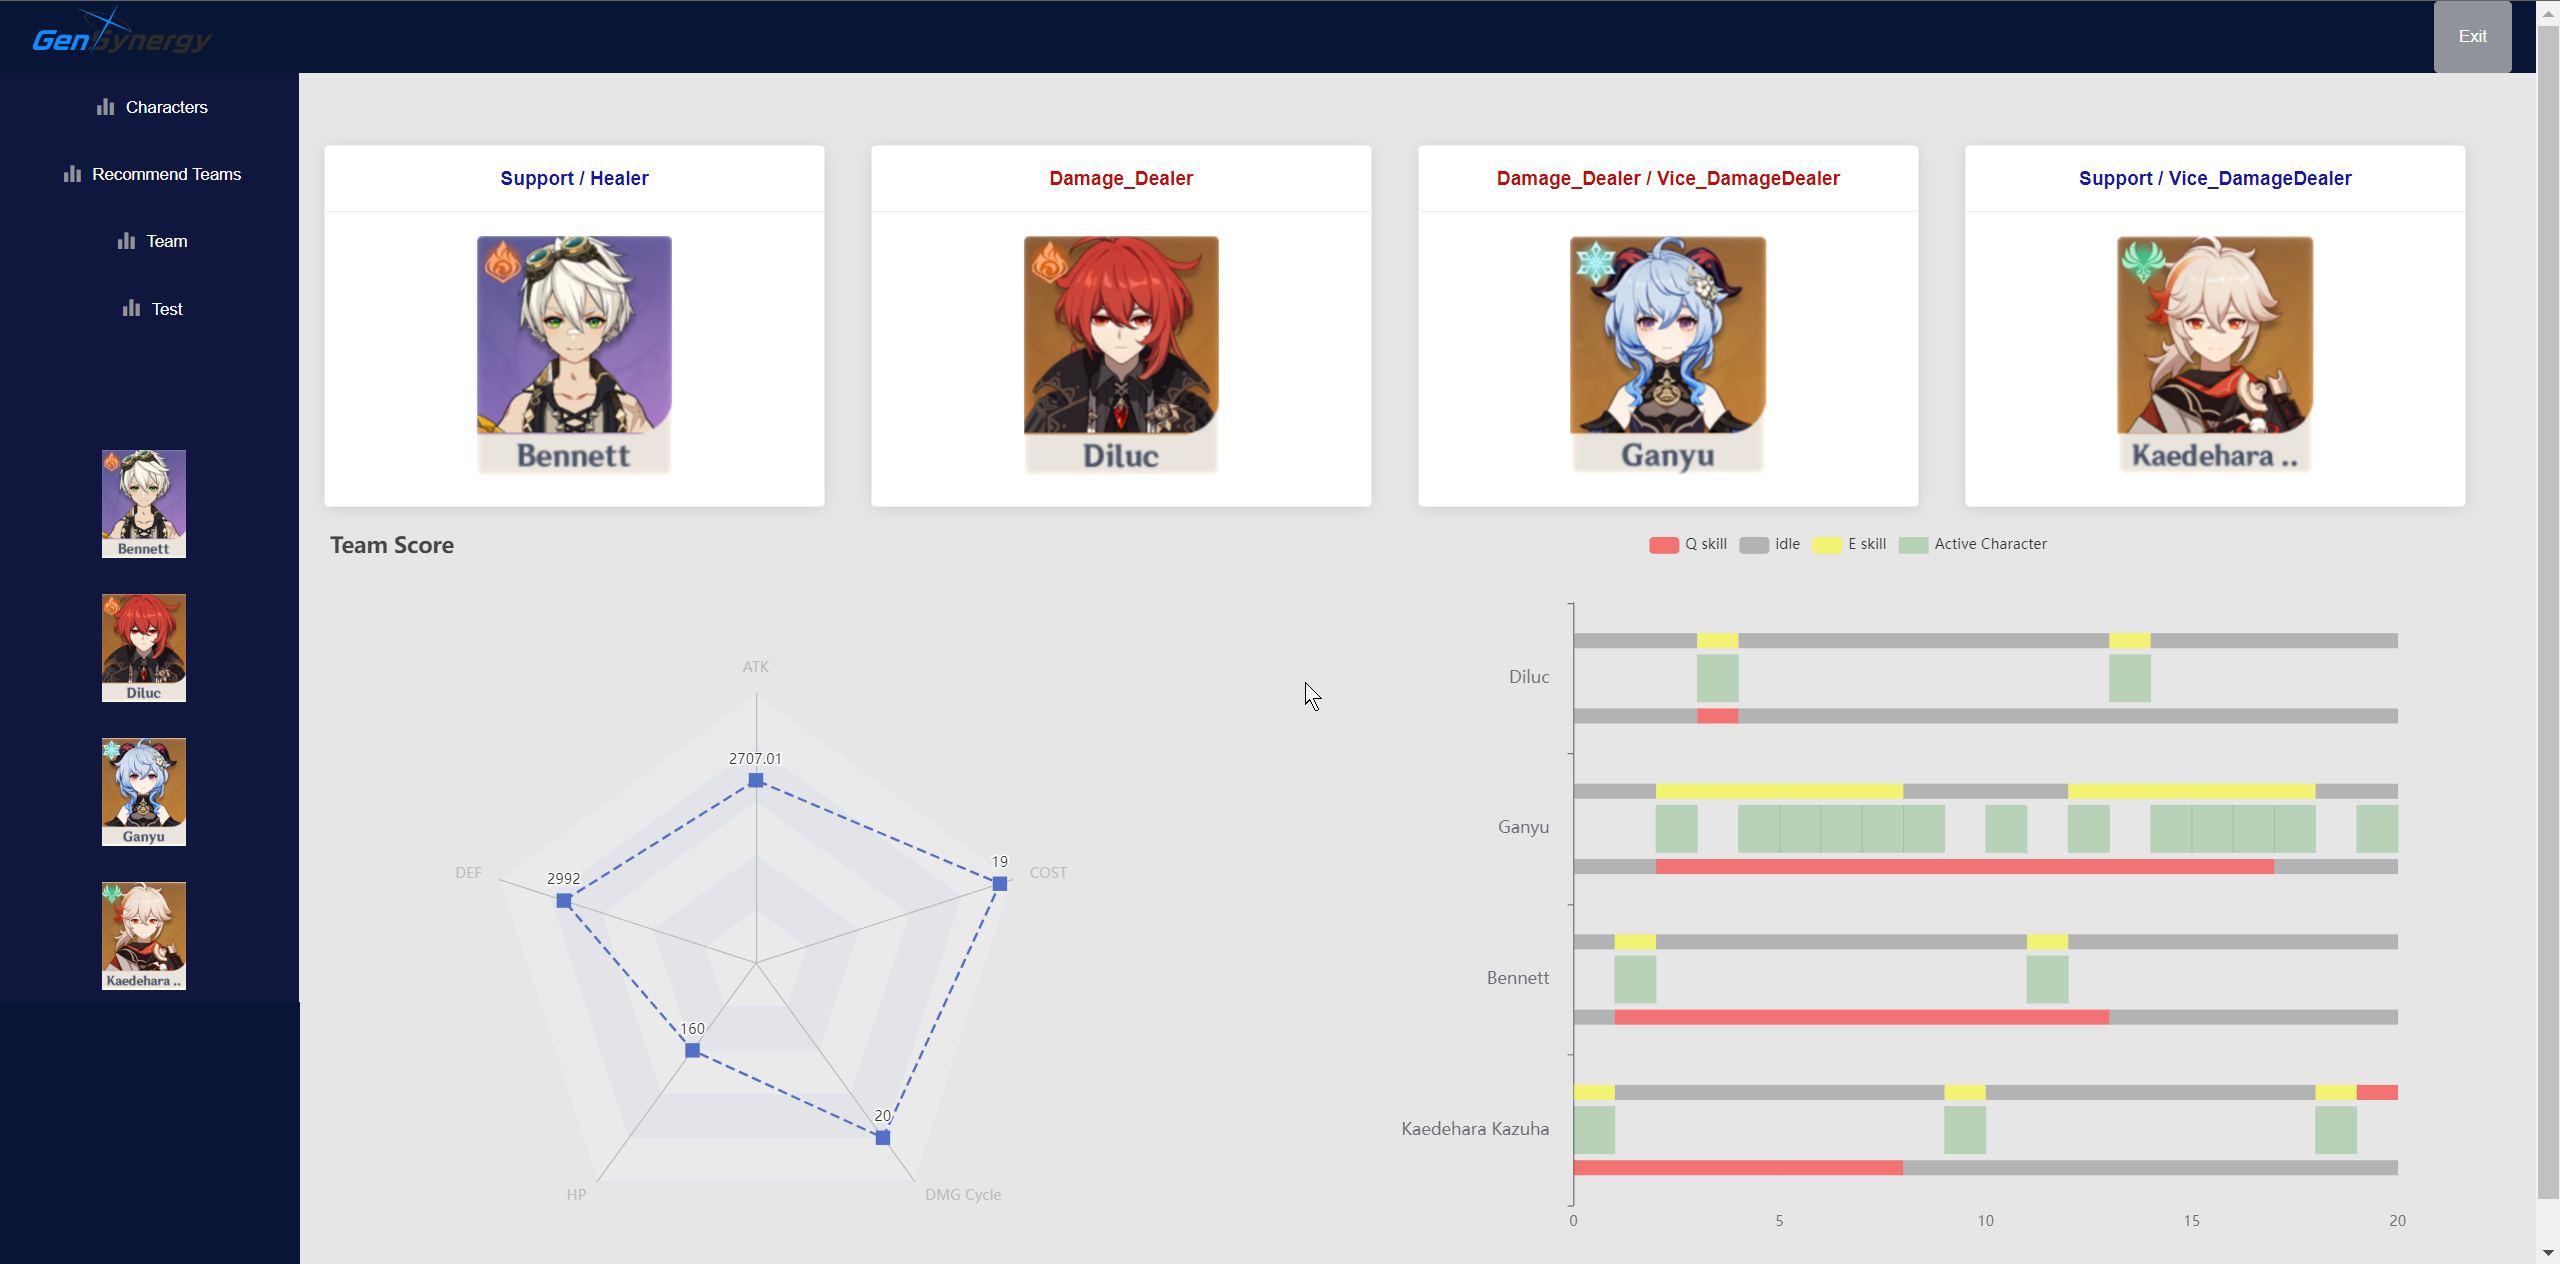
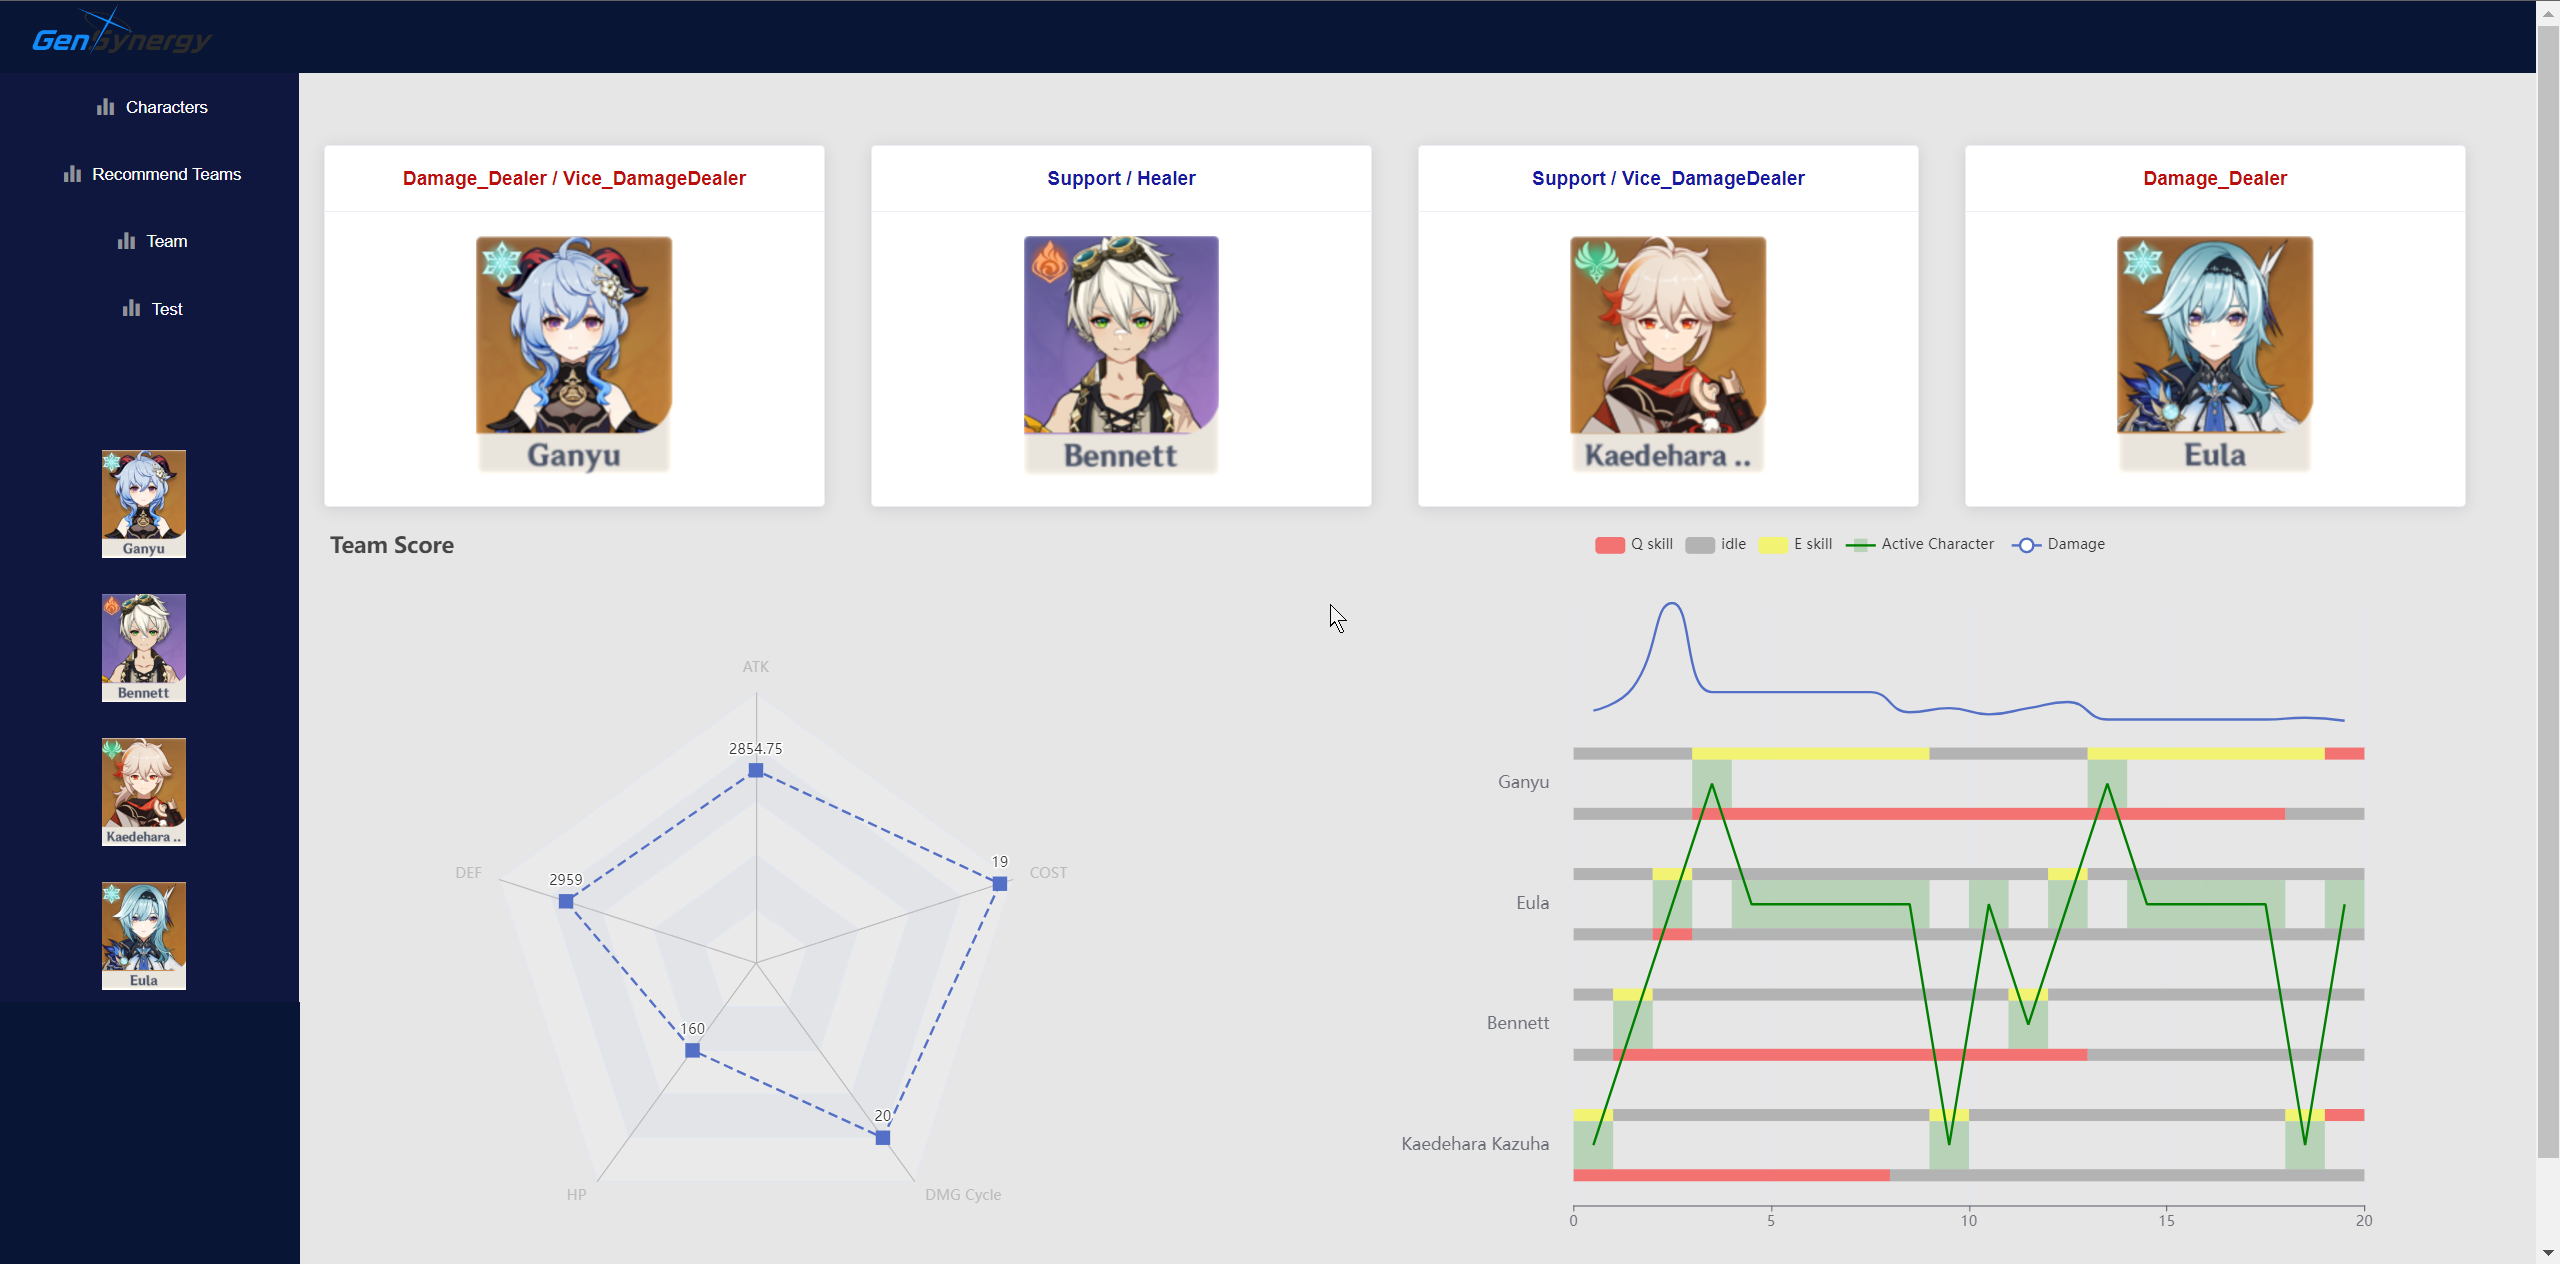
DamageCycle a0.1

diff --git a/src/components/New/team.vue b/src/components/New/team.vue
@@ -27,9 +27,19 @@
 
 
     <el-dialog :visible.sync="dialogVisible" width="60%">
+
+      <el-select v-model="selectedRoleType" placeholder="Choose character type">
+        <el-option label="All" value="All"></el-option>
+        <el-option label="Damage Dealer" value="Damage_Dealer"></el-option>
+        <el-option label="Vice Damage Dealer" value="Vice_DamageDealer"></el-option>
+        <el-option label="Support" value="Support"></el-option>
+        <el-option label="Healer" value="Healer"></el-option>
+      </el-select>
+
       <div class="card-container" ref="scrollContainer">
         <el-row :gutter="20">
-          <el-col :span="6" v-for="(character, index) in characters" :key="character.id" v-if="index !== 0">
+          <el-col :span="6" v-for="(character, index) in filteredCharacters" :key="character.id" v-if="index !== 0">
+          <!--<el-col :span="6" v-for="(character, index) in characters" :key="character.id" v-if="index !== 0">-->
             <el-card class="card">
               <div>
                 <!-- 角色头像 -->
@@ -90,13 +100,57 @@ export default {
 
   computed: {
     // 从 Vuex 获取 selectedRoles 数组
+      filteredCharacters() {
+    
+    if (!this.selectedRoleType) return this.characters; // 如果没有选择类型，则返回所有角色
+    return this.characters.filter(character => {
+      // 将选中的角色类型映射到实际的tag值
+      let tagValue;
+      switch (this.selectedRoleType) {
+        case 'Vice_DamageDealer':
+          tagValue = 'Vice_DamageDealer';
+          break;
+        case 'Support':
+          tagValue = 'Support';
+          break;
+        case 'Damage_Dealer':
+          tagValue = 'Damage_Dealer';
+          break;
+        case 'Healer':
+          tagValue = 'Healer';
+          break;
+        case 'All':
+          return true;
+        default:
+          return false;
+
+          //return false; // 如果selectedRoleType不匹配任何已知类型，则不包括该角色
+      }
+    return character.stats.tag1 === tagValue||character.stats.tag2 === tagValue|| 
+             character.stats.tag1 === 'All';
+
+    });
+    /*
+    if(this.selectedRoleType!=null&&this.selectedRoleType!='All')
+    result.unshift(null);
+
+    return result;
+*/
+    },
+
     selectedRoles() {
       return this.$store.state.selectedRoles;
     },
+    /*
+    filteredCharacters() {
+      return this.characters.filter(character =>
+        (character.tag1 === 'Vice_DamageDealer' || character.tag2 === 'Vice_DamageDealer') && character.id !== 0);
+    }
 
-
+*/
 
   },
+
 
   watch: {
     selectedRoles(newValue, oldValue) {
@@ -109,6 +163,7 @@ export default {
     return {
       dialogVisible: false,
       currentRoleIndex: null,
+      selectedRoleType: 'All', // 存储选中的角色类型
       characters: [],
       /**
        * 队伍分数，供队伍能力可视化使用

diff --git a/README.md b/README.md
@@ -4,12 +4,12 @@ Genshin Team Paring
 - 
 - 增加了伤害轴可视化
 ![](src/assets/demo/界面介绍.png)
-描述了20s的伤害轴中，谁应何时上场、Q/E技能timing和持续时间，分别用散点和两条堆积图表示。靠上的堆积图表示E技能释放timing和持续时间，靠下的堆积图表示Q技能释放timing和持续时间。散点代表当前场上角色，切人的逻辑在DCcalc()方法中有描述
+描述了20s的伤害轴中，谁应何时上场、Q/E技能timing和持续时间、以及伤害，分别用散点、堆积图和趋势线表示。靠上的堆积图表示E技能释放timing和持续时间，靠下的堆积图表示Q技能释放timing和持续时间。散点代表当前场上角色，切人的逻辑在DCcalc()方法中有描述。趋势线代表伤害估算，比如图里趋势线第一个波峰是四人都开大所致，趋势线前半段较高，因为万叶Q技能在生效中（攻击型辅助的大招一律简化为增上）
 
 - 把角色界面和team界面里的card高度都定死了，解决了分辨率导致有时候缺一块的现象
 
 - 换了个logo，用ba风格生成器弄的便宜logo，synergy在游戏里代表游戏配合，就用了这个词
 
 - 存在的问题：
-    - 伤害轴数据有时候会莫名其妙多出几个系列，表现为横轴不止20秒。比如，控制台输出的伤害轴图的series只有26个成员，在tooltip里看到的却有28个成员。不过重新编译就好了，也不清楚为什么
+    - 伤害轴数据系列有时候会莫名其妙多出几个对象，表现为横轴不止20秒。比如，控制台输出的伤害轴图的series只有26个对象，在tooltip里看到的却有28个对象。不过重新编译就恢复正常了。真正原因还不知道
     - 左边的雷达图有超量程的风险，但由于算法太复杂一时不知道最极端情况是多少
